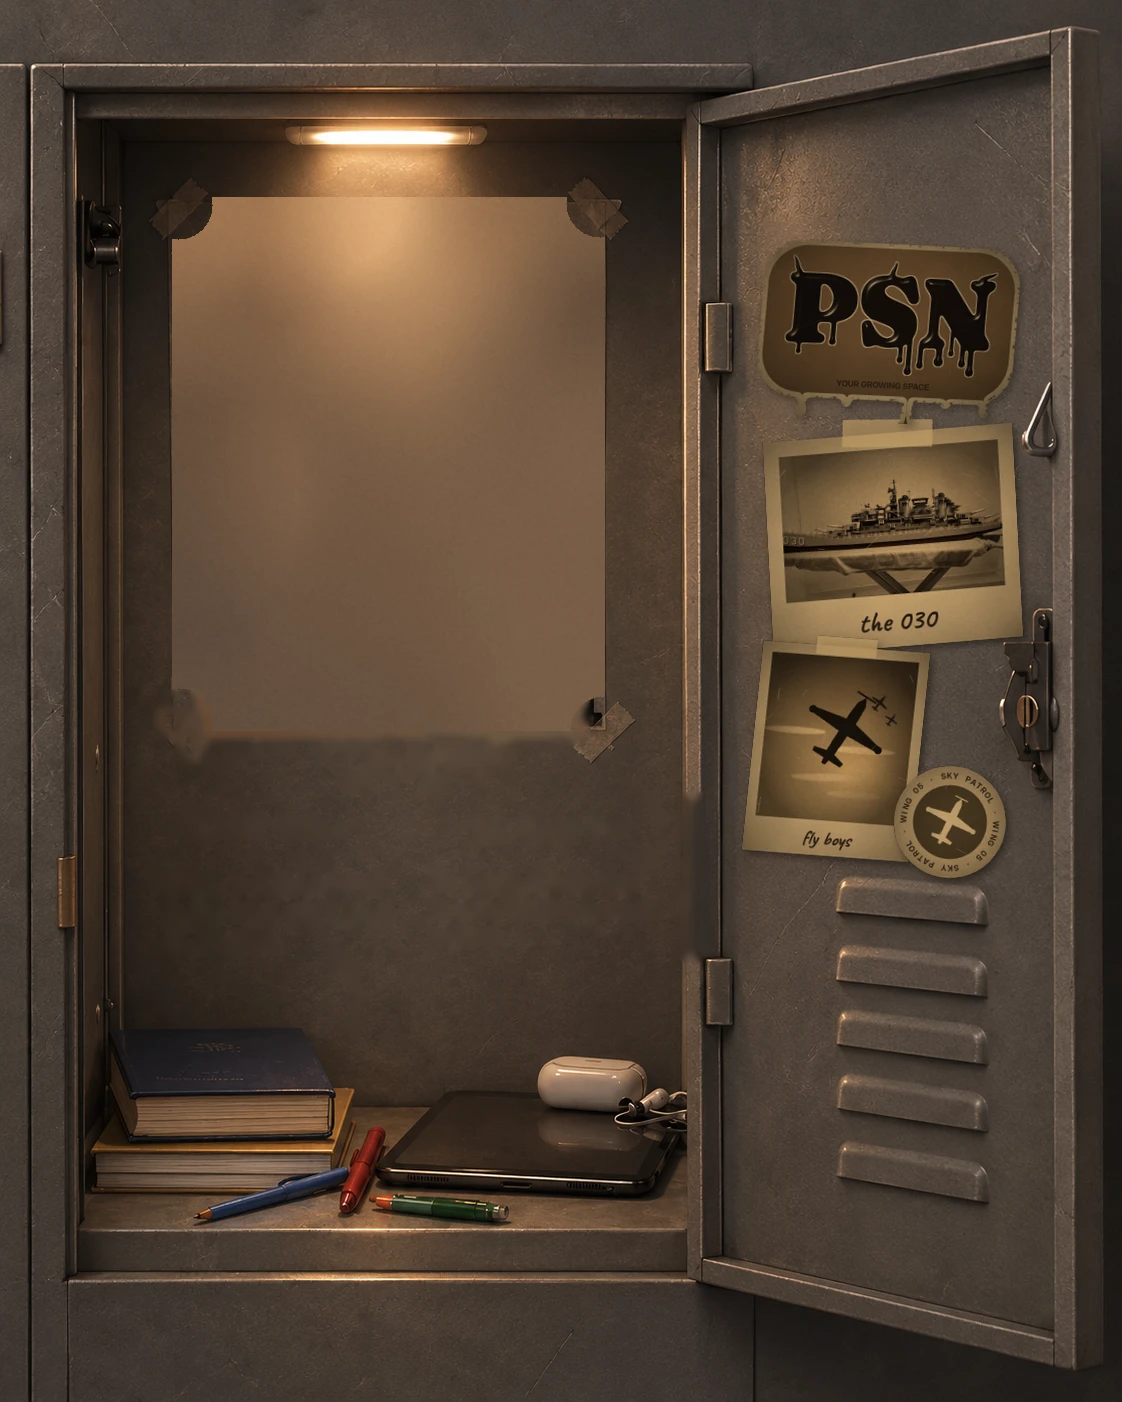
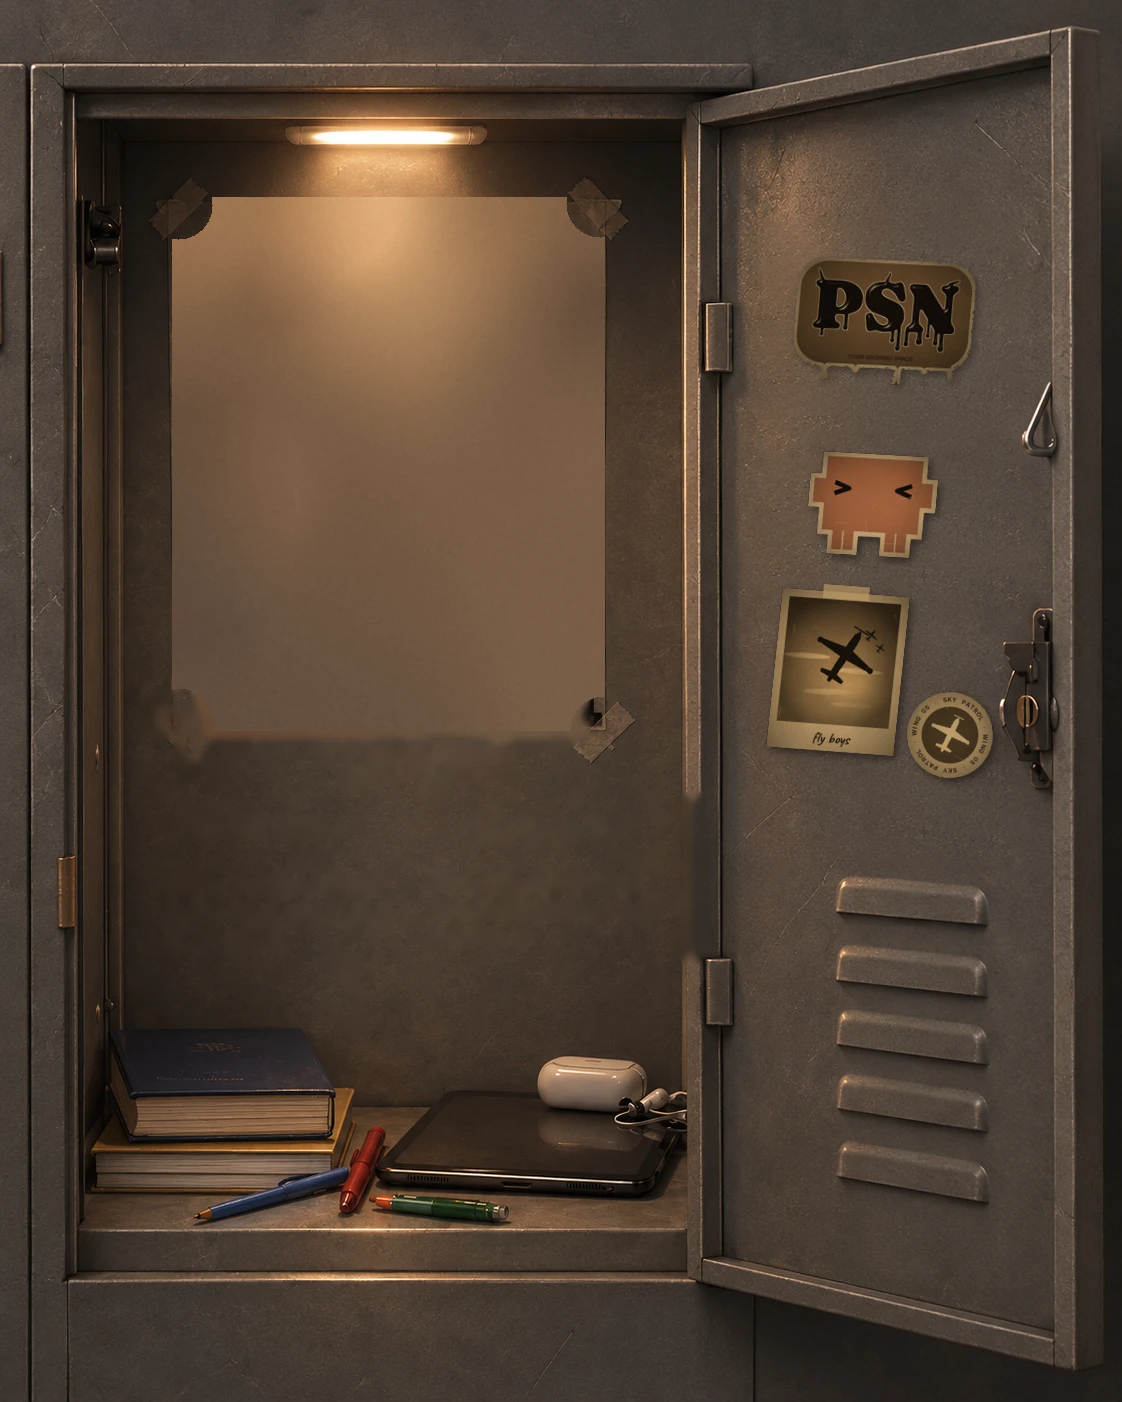
Locker: psn lettering on the front door; smaller inside stickers with the pixel critter
Claude-Session: https://claude.ai/code/session_01TickKJpBnQQFYgXhrANbMP

Changed region(s): [[0.6551, 0.1534, 0.9358, 0.6441]]

diff --git a/src/data/site.ts b/src/data/site.ts
@@ -283,7 +283,7 @@ export const next = {
 /* ---------- 05 · The locker (unlocked with the key hidden in chapter 04) ---------- */
 export const locker = {
   /** Closed view: the row of lockers, with the middle (sticker) one being Param's. */
-  front: { src: '/portfolio_psn/images/locker/front.webp', door: '/portfolio_psn/images/locker/front-door.webp', padlock: '/portfolio_psn/images/locker/padlock-body.webp', shackle: '/portfolio_psn/images/locker/padlock-shackle.webp', alt: 'A row of five grey school lockers. The middle one is padlocked, with warm light leaking from its vents, and is covered in stickers: a photo, a worn PSN badge, an NCC crest, "The deal is in the detail" and a Last Ship poster.' },
+  front: { src: '/portfolio_psn/images/locker/front.webp', door: '/portfolio_psn/images/locker/front-door.webp', padlock: '/portfolio_psn/images/locker/padlock-body.webp', shackle: '/portfolio_psn/images/locker/padlock-shackle.webp', alt: 'A row of five grey school lockers. The middle one is padlocked, with warm light leaking from its vents, and is covered in stickers: a photo, psn lettering, an NCC crest, "The deal is in the detail" and a Last Ship poster.' },
   /** Open view: the inside of the locker (Param's reference image, cleaned up). */
   inside: '/portfolio_psn/images/locker/inside.webp',
   posterPaper: '/portfolio_psn/images/locker/poster-paper.webp',
